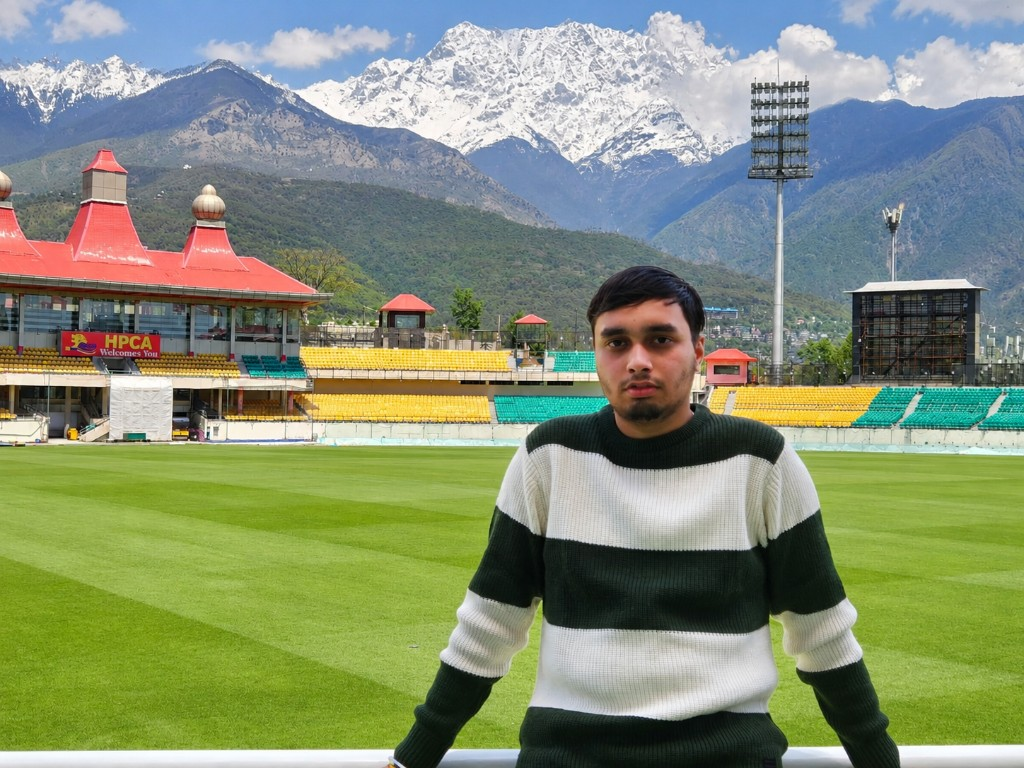
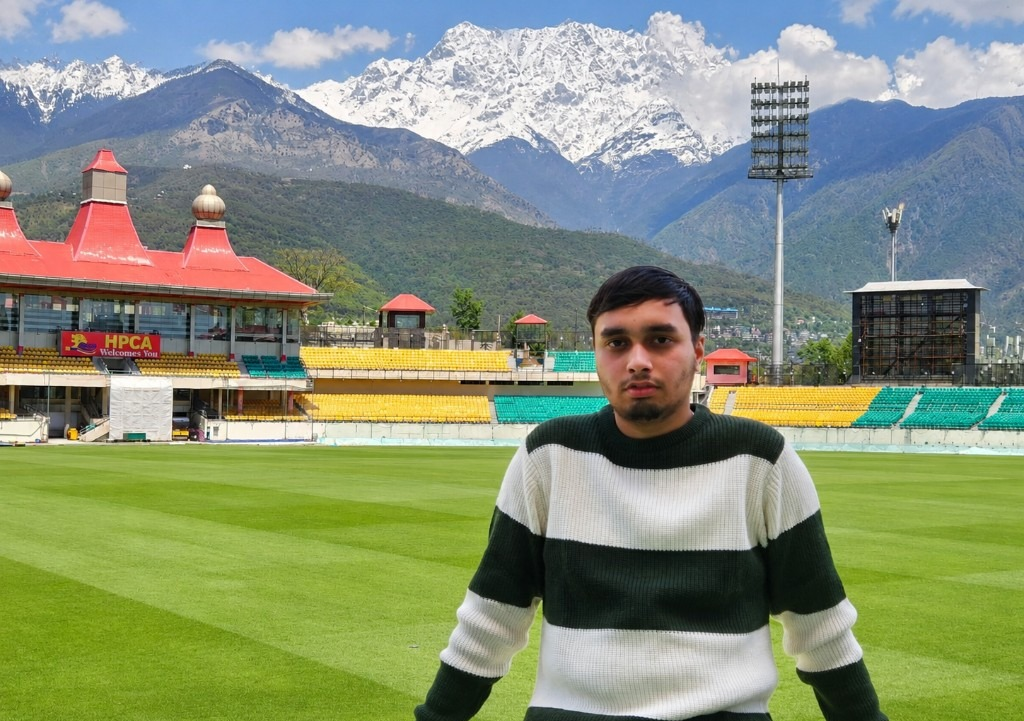
Fix modal scroll restore and crop the profile photo.
Lock background scroll cleanly on close, and trim a bit from the bottom of the about image.

diff --git a/src/useBodyScrollLock.js b/src/useBodyScrollLock.js
@@ -1,15 +1,30 @@
 import { useEffect } from 'react'
 
 let lockCount = 0
-let savedOverflow = ''
+let savedStyles = null
 
 export function useBodyScrollLock(locked) {
   useEffect(() => {
     if (!locked) return
 
     if (lockCount === 0) {
-      savedOverflow = document.body.style.overflow
+      const scrollY = window.scrollY
+      savedStyles = {
+        overflow: document.body.style.overflow,
+        position: document.body.style.position,
+        top: document.body.style.top,
+        left: document.body.style.left,
+        right: document.body.style.right,
+        width: document.body.style.width,
+        scrollY,
+      }
       document.body.style.overflow = 'hidden'
+      document.body.style.position = 'fixed'
+      document.body.style.top = `-${scrollY}px`
+      document.body.style.left = '0'
+      document.body.style.right = '0'
+      document.body.style.width = '100%'
+      document.documentElement.style.overflow = 'hidden'
     }
     lockCount += 1
 
@@ -17,7 +32,25 @@ export function useBodyScrollLock(locked) {
       lockCount -= 1
       if (lockCount <= 0) {
         lockCount = 0
-        document.body.style.overflow = savedOverflow
+        if (savedStyles) {
+          const y = savedStyles.scrollY
+          const root = document.documentElement
+          // Global smooth scrolling would animate the restore, showing a jump to top first.
+          const savedScrollBehavior = root.style.scrollBehavior
+          root.style.scrollBehavior = 'auto'
+
+          document.body.style.overflow = savedStyles.overflow
+          document.body.style.position = savedStyles.position
+          document.body.style.top = savedStyles.top
+          document.body.style.left = savedStyles.left
+          document.body.style.right = savedStyles.right
+          document.body.style.width = savedStyles.width
+          root.style.overflow = ''
+          savedStyles = null
+
+          window.scrollTo(0, y)
+          root.style.scrollBehavior = savedScrollBehavior
+        }
       }
     }
   }, [locked])
